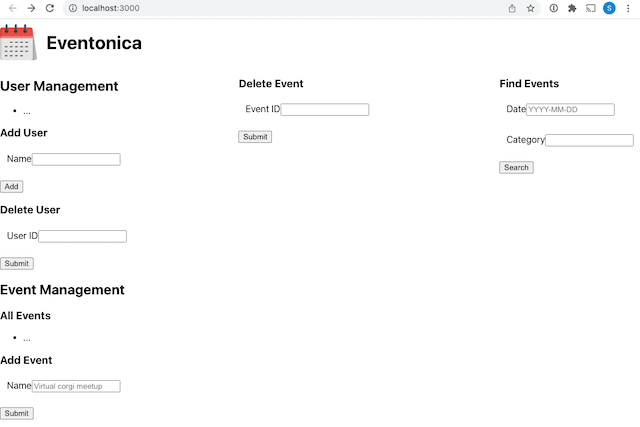
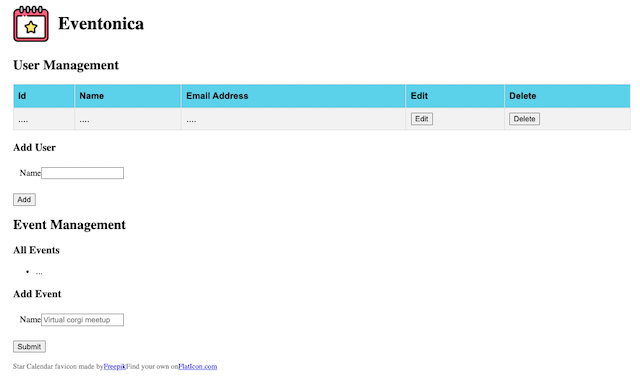
add eventonica setup code

diff --git a/project-example/week-9/eventonica/starter-code/index.css b/project-example/week-9/eventonica/starter-code/index.css
@@ -1,8 +1,7 @@
-fieldset {
-  border: none;
-  margin: 1rem 0;
+body {
+  margin-left: 2em;
+  margin-right: 2em;
 }
-
 header {
   /* For more about flexbox, see https://css-tricks.com/snippets/css/a-guide-to-flexbox/ */
   display: flex;
@@ -13,14 +12,37 @@ header img {
   height: 64px;
   margin-right: 1em;
 }
-
-main {
-  display: flex;
-  justify-content: space-between;
+/* User table */
+#users {
+  font-family: Arial, Helvetica, sans-serif;
+  border-collapse: collapse;
+  width: 100%;
 }
 
-aside {
-  margin-left: 2em;
+#users td,
+#users th {
+  border: 1px solid #ddd;
+  padding: 8px;
+}
+
+#users tr:nth-child(even) {
+  background-color: #f2f2f2;
+}
+
+#users tr:hover {
+  background-color: #ddd;
+}
+
+#users th {
+  padding-top: 12px;
+  padding-bottom: 12px;
+  text-align: left;
+  background-color: #5dd2ec;
+  color: black;
+}
+fieldset {
+  border: none;
+  margin: 1rem 0;
 }
 
 footer {

diff --git a/project-example/week-9/eventonica/eventonica-setup.md b/project-example/week-9/eventonica/eventonica-setup.md
@@ -43,16 +43,111 @@ Then open [http://localhost:3000/](http://localhost:3000/) to see your app.
 
 #### JSX Starter Code
 
-1. Inside `/src/App.js`, delete all the code. In its place, add code from [starter-code](./starter-code/starter-jsx.js). You should see your UI update automatically on `localhost:3000` to an Eventonica form. If there's an error, `ctrl + c` and `npm start` again.
+1.Place the following code in `src/App.js` file. Create a images folder in `src` directory. Drag and drop, or copy and paste, [calendar icon](./images/calendar.png) in the `src` folder.
 
-2. Go to `client/src/App.css` and delete the contents. You can also delete the file itself for `client/src/index.css`. Replace the `App.css` contents with all the CSS code from [css-starter-code](./starter-code/index.css). You should see 2 columns on your form now on `localhost:3000`.
+```jsx
+// src/App.js
+import calendar from './images/calendar.png';
+import './App.css';
 
-3. Drag and drop, or copy and paste, [calendar icon](./images/calendar.png) in the `src` folder.
+function App() {
+  return (
+    <div className="App">
+      <header>
+        <img src={calendar} alt="Calendar Star Logo" />
+        <h1>Eventonica</h1>
+      </header>
 
-   ![](./images/eventonica-setup.png)
+      <main>
+        {/* User-management */}
+        <section className="user-management">
+          <h2>User Management</h2>
 
-   <sub><sub>Please ignore calender icon in this image</sub></sub>
+          <table id="users">
+            <tr>
+              <th>Id</th>
+              <th>Name</th>
+              <th>Email Address</th>
+              <th>Edit</th>
+              <th>Delete</th>
+            </tr>
+            <tr>
+              <td>....</td>
+              <td>....</td>
+              <td>....</td>
+              <td>
+                <button>Edit</button>
+              </td>
+              <td>
+                <button>Delete</button>
+              </td>
+            </tr>
+          </table>
 
-4. Look at all the code that's now in your App component. Take 2 minutes to point out to yourself where repeated elements might be turned into a reusable component later.
+          <div>
+            <h3>Add User</h3>
+            <form id="add-user" action="#">
+              <fieldset>
+                <label>Name</label>
+                <input type="text" id="add-user-name" />
+              </fieldset>
+              {/* Add more form fields here */}
+              <input type="submit" value="Add" />
+            </form>
+          </div>
+        </section>
+        {/* Event-management */}
+        <section className="event-management">
+          <h2>Event Management</h2>
+          <div>
+            <h3>All Events</h3>
+            <ul id="events-list">
+              {/* Display all Events here */}
+              <li>...</li>
+            </ul>
+
+            <h3>Add Event</h3>
+            <form id="add-event" action="#">
+              <fieldset>
+                <label>Name</label>
+                <input
+                  type="text"
+                  id="add-event-name"
+                  placeholder="Virtual corgi meetup"
+                />
+              </fieldset>
+              {/* Add more form fields here */}
+              <input type="submit" />
+            </form>
+          </div>
+        </section>
+      </main>
+
+      <footer>
+        <div>
+          Star Calendar favicon made by
+          <a href="https://www.flaticon.com/authors/freepik" title="Freepik">
+            Freepik
+          </a>
+          Find your own on
+          <a href="https://www.flaticon.com/" title="Flaticon">
+            FlatIcon.com
+          </a>
+        </div>
+      </footer>
+    </div>
+  );
+}
+
+export default App;
+```
+
+2.  Go to `client/src/App.css` and delete the contents. Place the following code in `client/src/App.css` file. You can also delete the file itself for `client/src/index.css`.
+
+3.  Navigate to http://localhost:3000/. You should see your UI update automatically.
+
+4.  Look at all the code that's now in your App component. Take 2 minutes to point out to yourself where repeated elements might be turned into a reusable component later.
+
+![](./images/eventonica-setup.png)
 
 > Note:<br> Remove `.git` folder from your react app before pushing into your github repo.<br>Navigate to your `client` folder in the terminal.<br> Remove the `.git` folder using `rm -rf .git` command. <br>Come out of client folder using `cd ..`. <br>Inside Eventonica directory, initialize Git repository and push all your code to Github.
